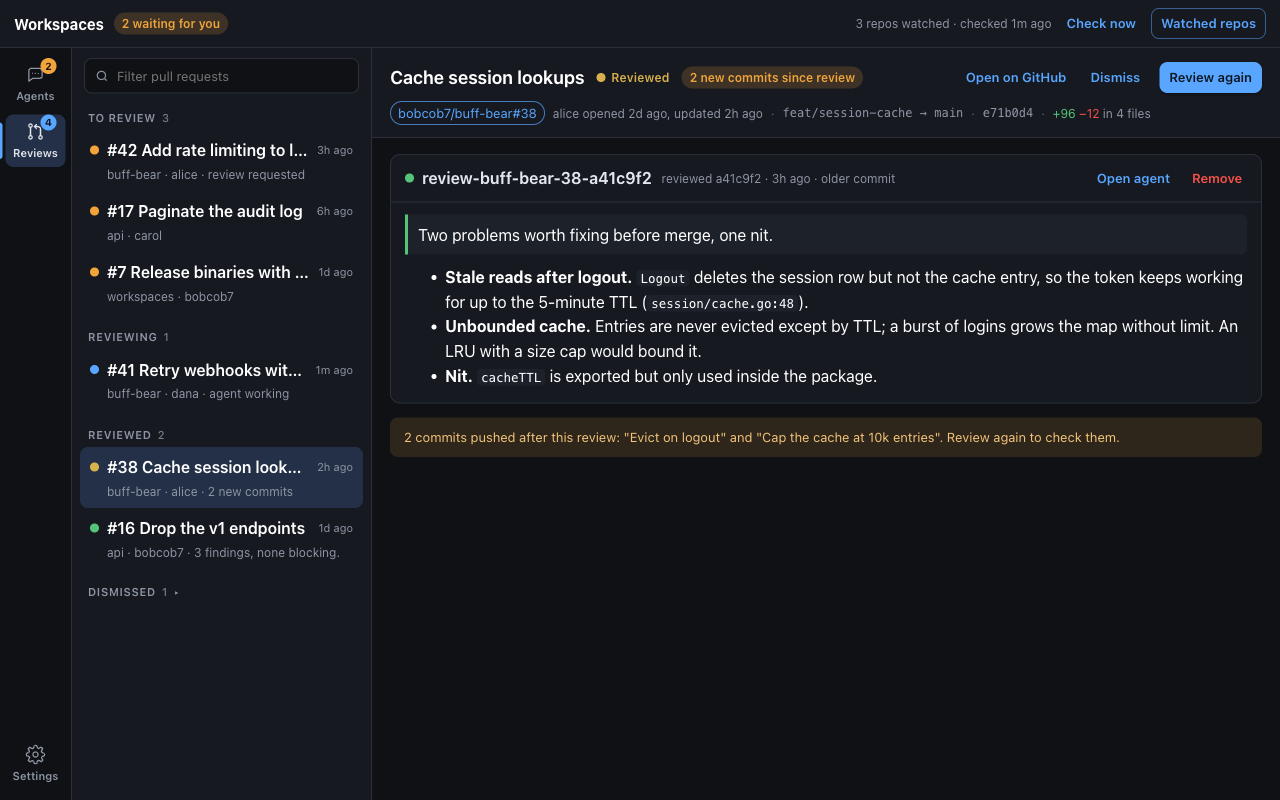
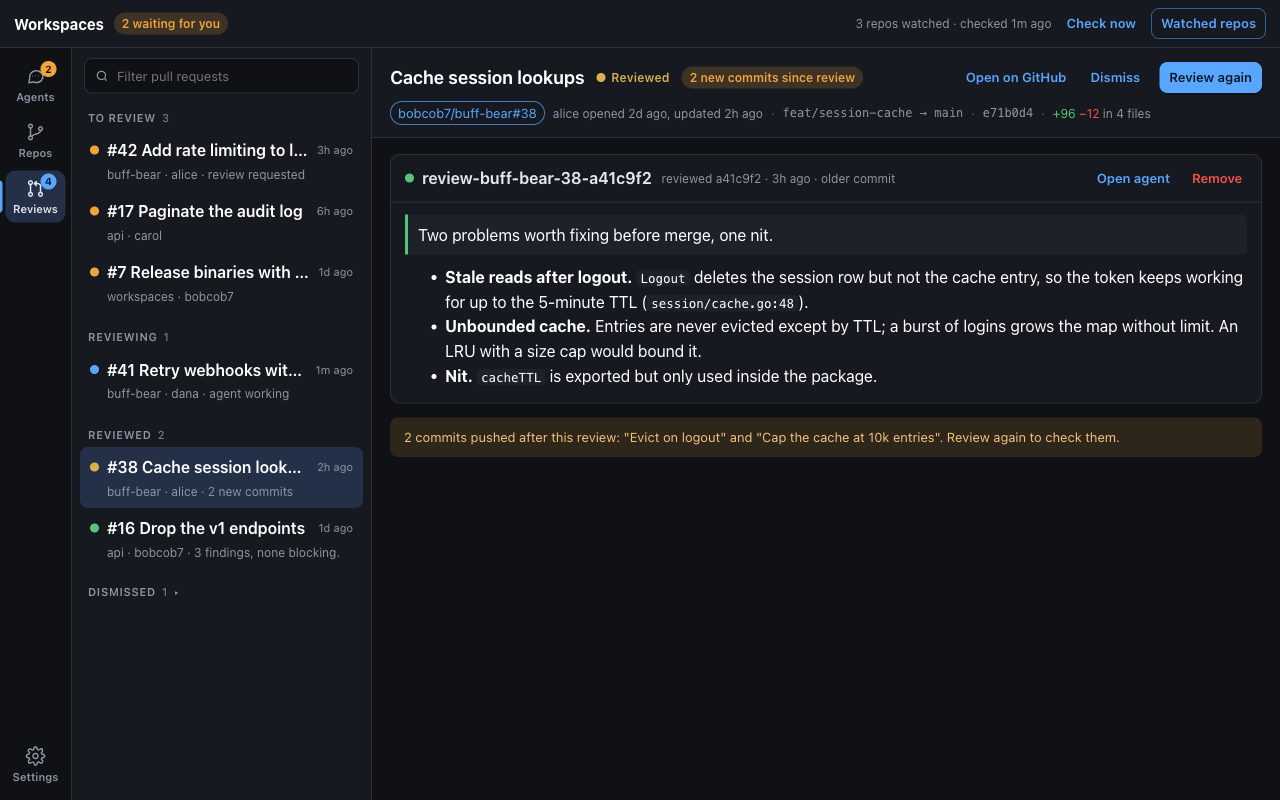
docs: show Reviews alongside Repos in the desktop screenshots
Retakes the screenshots with the four-section rail now that Repos has
landed, adds the Pull request reviews card in a repo's detail, and
updates the design doc for the Repos slots Reviews fills.

Claude-Session: https://claude.ai/code/session_01MhwHh96Q7Rn8vBe2Fa5nVA

Changed region(s): [[0.0, 0.0938, 0.0625, 0.2812], [0.0312, 0.0625, 0.0625, 0.0938], [0.0, 0.9375, 0.0312, 0.9688]]

diff --git a/docs/design/desktop-sections/reviews.md b/docs/design/desktop-sections/reviews.md
@@ -152,7 +152,10 @@ Settled by the implementing PR:
   pushed.
 - **Settings** lists only the Reviews group, since a group is shown once it
   has settings.
-- **Repos detail card** ships as `RepoReviewsCard` in
-  `features/reviews/RepoReviewsCard.tsx`, for the Repos section to render;
-  the Add repo dialog's Watch switch is left to the Repos PR, which can
-  call `api.reviewsSetWatch`.
+- **Repos slots** ([repos.md](repos.md#slots-for-reviews)) are filled by
+  `RepoReviewsCard` and `features/reviews/RepoSlots.tsx`
+  (`RepoReviewsIcons`, `AddRepoWatchSwitch`, `RemoveRepoReviewsNote`).
+  A listener follows Repos' `addRepo.fulfilled` (watching the repo when
+  its Watch switch was on, for GitHub repos only) and `removeRepo.fulfilled`
+  (re-reading the Watched repos list). Removing a repo keeps its switches
+  in `desktop.json`, so adding it back watches it again.

diff --git a/desktop/README.md b/desktop/README.md
@@ -73,6 +73,8 @@ backend every 5 minutes by default
 | ![](docs/reviews-watched.png) | ![](docs/settings.png) |
 | **A review agent in Agents** | **Nothing watched yet, gh signed out** |
 | ![](docs/review-agent.png) | ![](docs/reviews-empty.png) |
+| **A repo's Pull request reviews card, in Repos** | |
+| ![](docs/repos-reviews.png) | |
 
 The screenshots use sample data.
 
